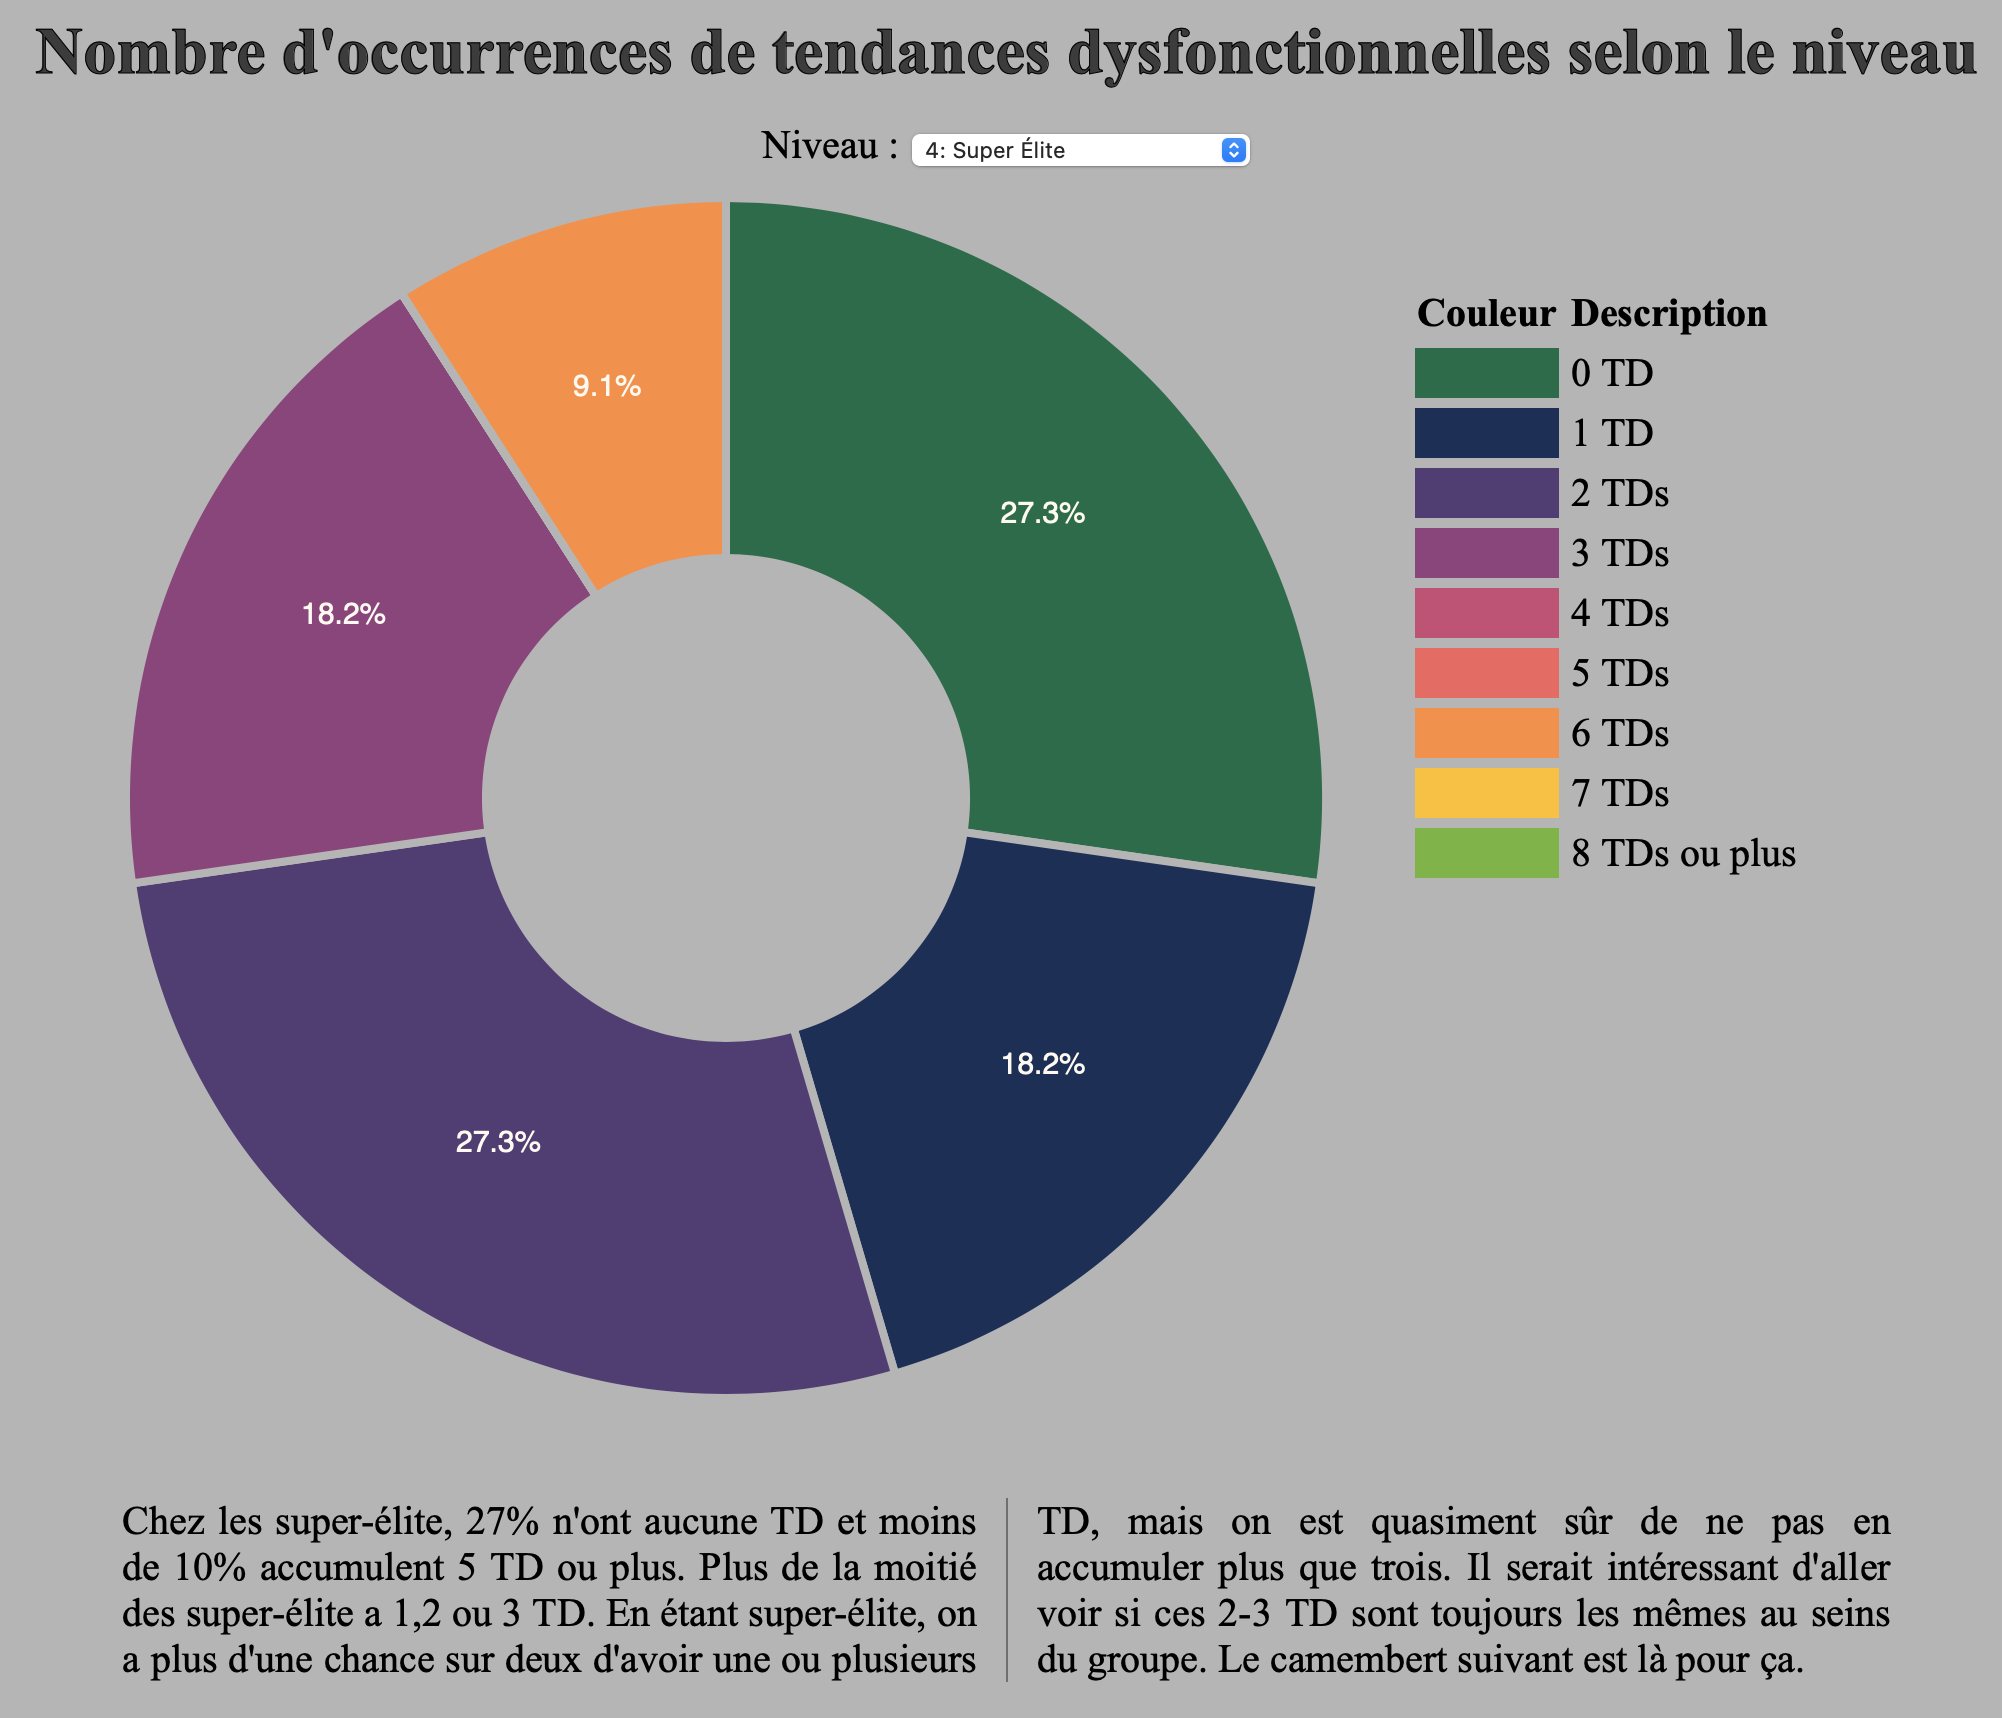
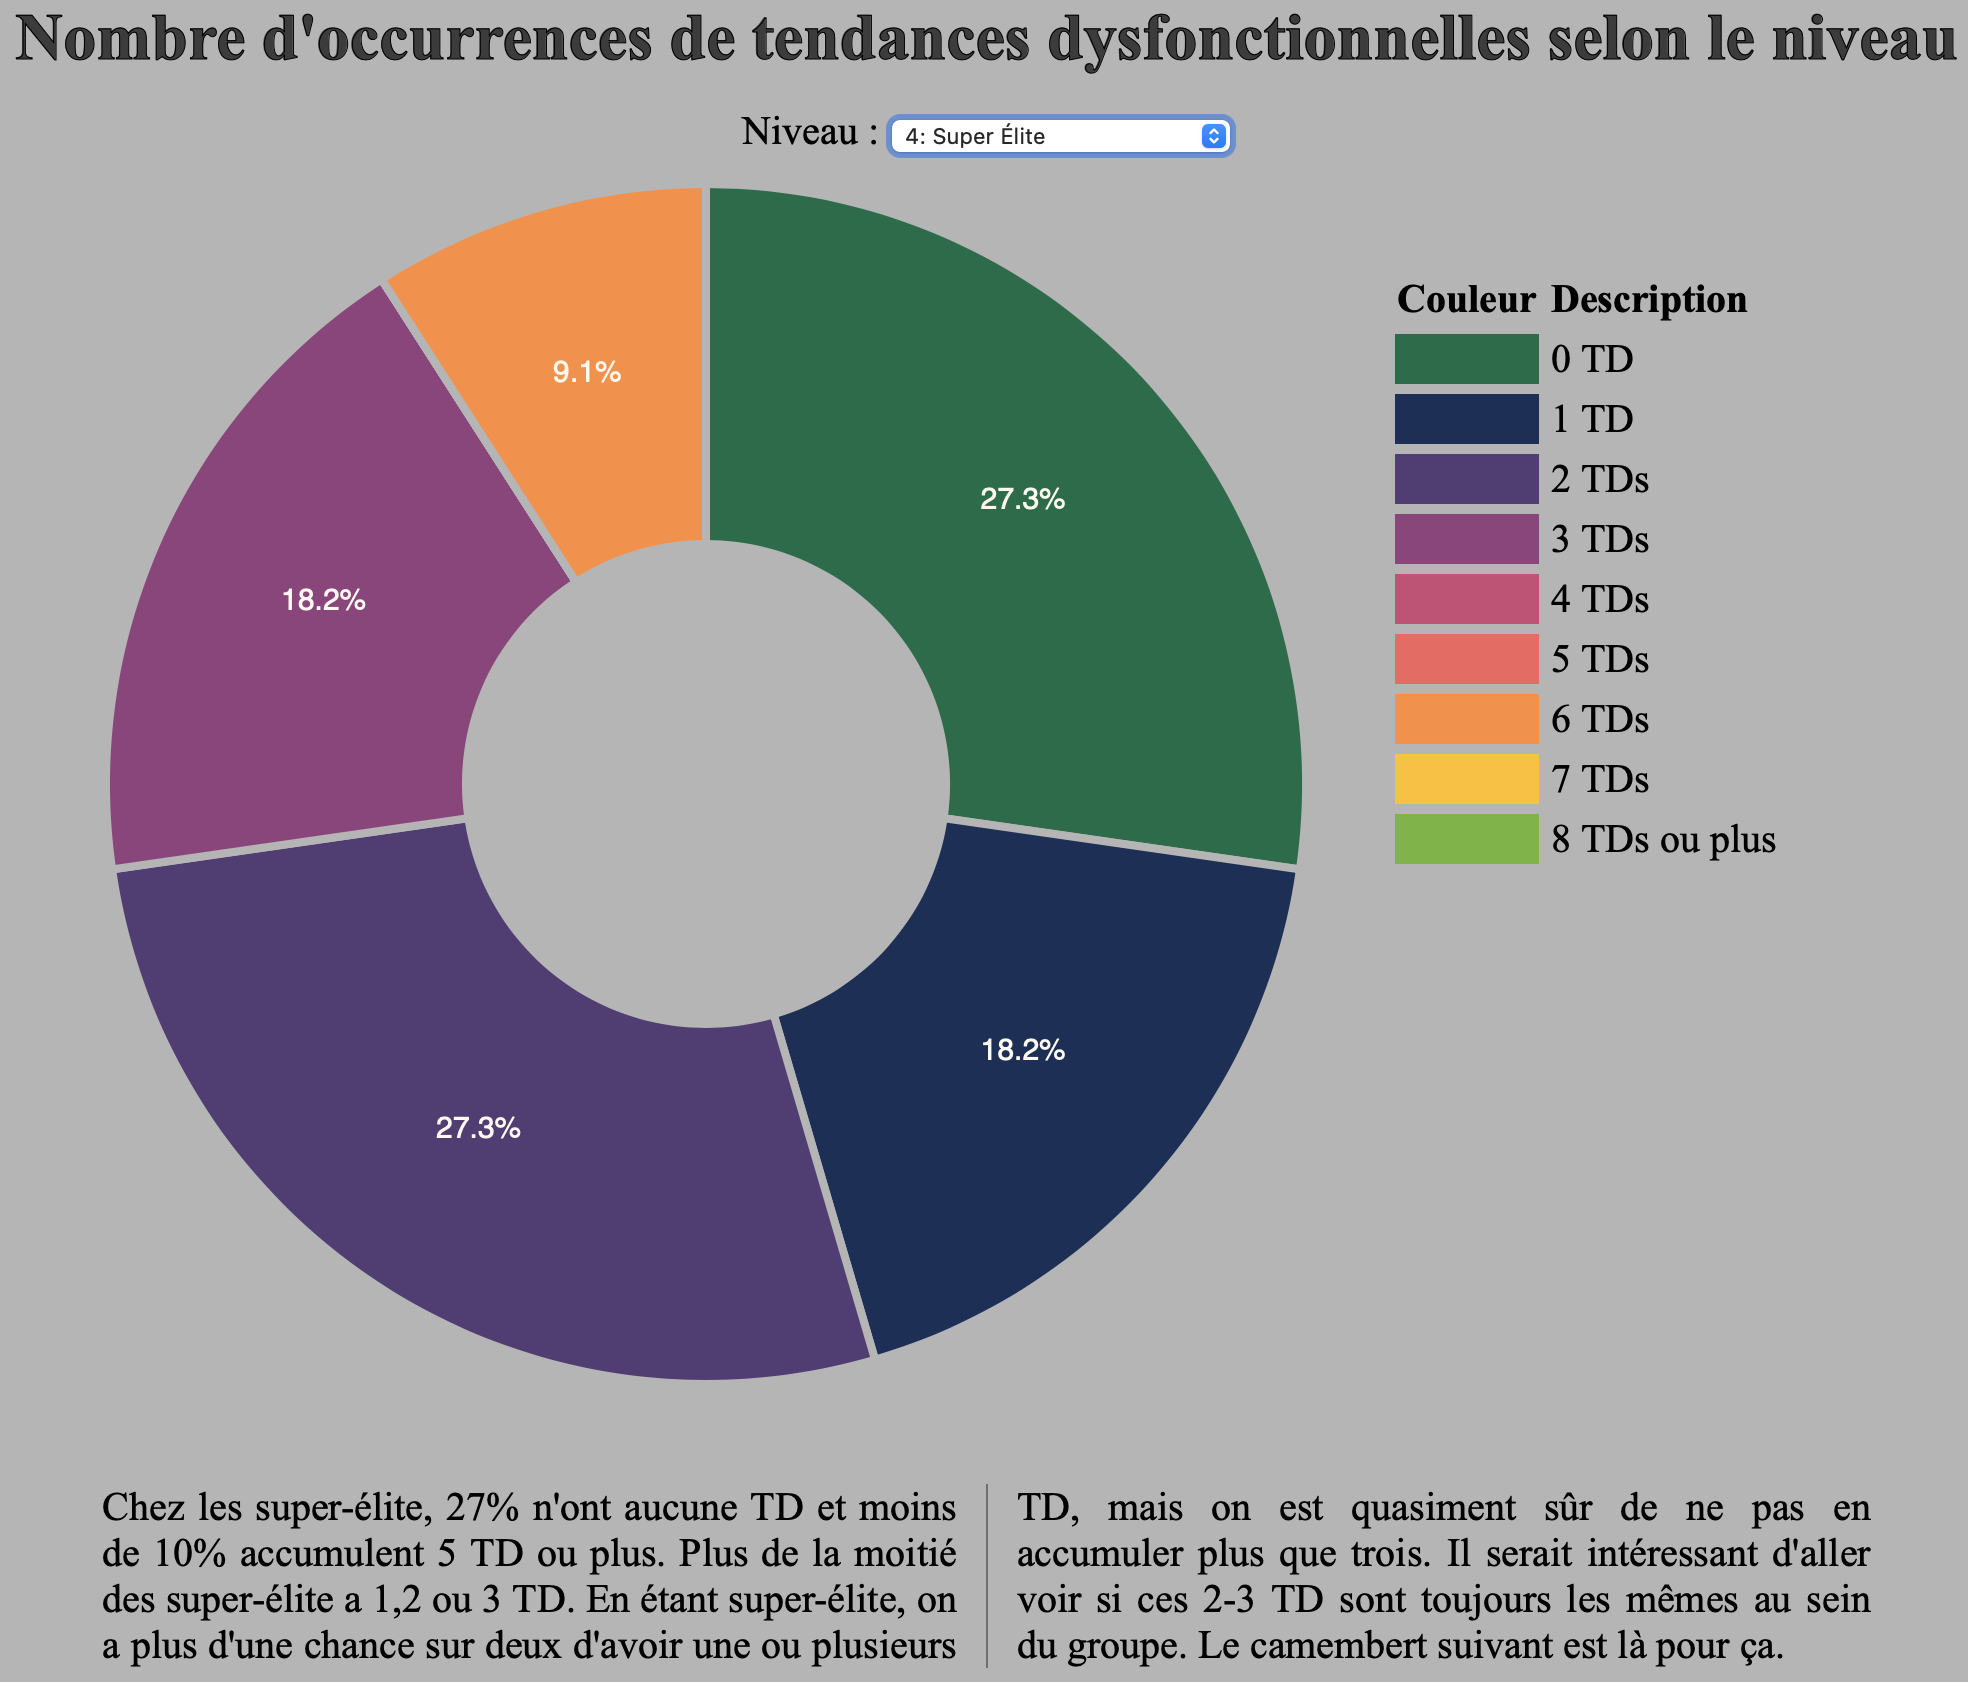
orthographe

diff --git a/main.js b/main.js
@@ -123,7 +123,7 @@ d3.dsv(';', './FichierCompletBaseANONYME.csv', d3.autoType).then(data => {
         '1' : "Chez les compétiteurs régionaux, plus de la moitié des rameurs n'a pas de TD. Par contre, 30% des rameurs ont 5 TD ou plus. Soit on n'a pas de tendance dysfonctionnelle, soit on les collectionne.",
         '2' : "Chez les compétiteurs nationaux, presque la moitié (~45%) des rameurs n'a pas de TD. Environ 23% des rameurs ont 5 TD ou plus et 32% ont 5 TD ou plus. La tendance se resserre vers le milieu (2-3 TD) par rapport aux rameurs régionaux.",
         '3' : "En équipe suisse, plus de 21% des rameurs n'ont aucune TD. 20% des rameurs accumulent 5 TD ou plus. Quasiment la moitié (48%) des rameurs nationaux accumule 2-3 TD. Par rapport aux rameurs nationaux et régionaux, la tendance se resserre encore vers le milieu.",
-        '4' : "Chez les super-élite, 27% n'ont aucune TD et moins de 10% accumulent 5 TD ou plus. Plus de la moitié des super-élite a 1,2 ou 3 TD. En étant super-élite, on a plus d'une chance sur deux d'avoir une ou plusieurs TD, mais on est quasiment sûr de ne pas en accumuler plus que trois. Il serait intéressant d'aller voir si ces 2-3 TD sont toujours les mêmes au seins du groupe. Le camembert suivant est là pour ça.",
+        '4' : "Chez les super-élite, 27% n'ont aucune TD et moins de 10% accumulent 5 TD ou plus. Plus de la moitié des super-élite a 1,2 ou 3 TD. En étant super-élite, on a plus d'une chance sur deux d'avoir une ou plusieurs TD, mais on est quasiment sûr de ne pas en accumuler plus que trois. Il serait intéressant d'aller voir si ces 2-3 TD sont toujours les mêmes au sein du groupe. Le camembert suivant est là pour ça.",
     }, {
         '0': '0 TD',
         '1': '1 TD',

diff --git a/README.md b/README.md
@@ -8,7 +8,11 @@ Ce projet a été fait dans le cadre du cours de l'Université de Lausanne "Visu
 La visualisation de données est disponible à ce lien: https://gugu5.github.io/VisuDo/
 
 ## Exemple de visualisation
-Il y a deux barplots utilisant les cinq dimensions de la personnalité et deux camemberts basés sur les tendances dysfonctionnelles (TD). L'utilisateur sélectionne la dimension ou le groupe de niveau qui l'intéresse. Un bref commentaire est proposé sous chaque visualisation. ![Exemple de visualisation](imgCamembert.png)
+Il y a deux barplots utilisant les cinq dimensions de la personnalité et deux camemberts basés sur les tendances dysfonctionnelles (TD). L'utilisateur sélectionne la dimension ou le groupe de niveau qui l'intéresse. Un bref commentaire est proposé sous chaque visualisation.
+
+![Exemple de visualisation](imgCamembert.png)
+
+
 
 ## Descriptif des données
 
